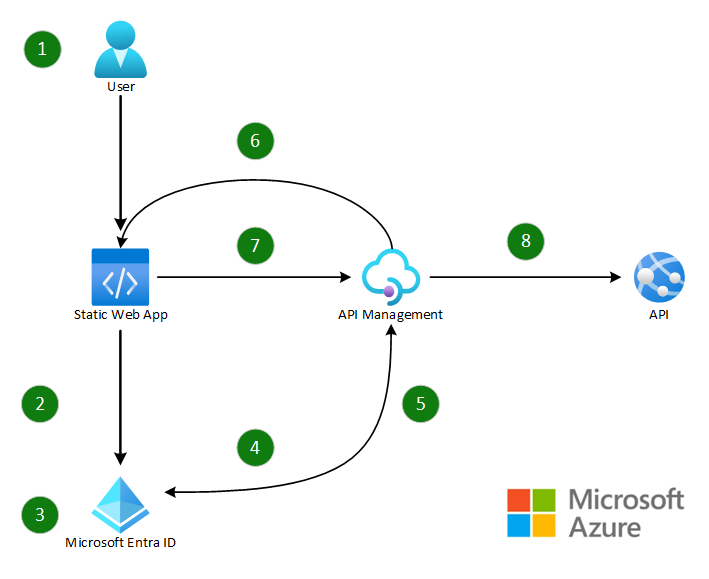
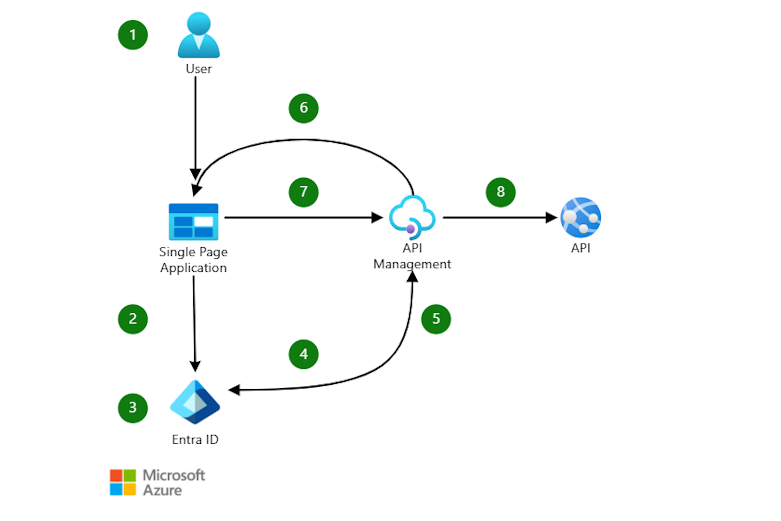
Updated to remove SWA references (#6)

diff --git a/docs/deployment-guide.md b/docs/deployment-guide.md
@@ -6,7 +6,7 @@ As this example uses `SameSite=Strict` cookies, the domain of the API Management
 
 > Note: It is possible to configure this example without using custom domains for the API Management instance and Static Web App, but the policy applied to the `callback` API method would need to be amended to `SameSite=None` and the `return-uri` named value would need to be set to the domain of the Static Web App. This, however, provides a less secure implementation as the cookie will be sent to any instance of API Management gateway and not constrained to your own domain. More on SameSite cookies can be read [here](https://developer.mozilla.org/docs/Web/HTTP/Headers/Set-Cookie/SameSite).
 
-To learn more about using custom domains on Azure resources, see [Manage custom domains for Azure Static Web Apps](https://learn.microsoft.com/azure/static-web-apps/custom-domain), and [Configure a custom domain name for your Azure API Management instance](https://learn.microsoft.com/azure/api-management/configure-custom-domain). For more information on how to configure DNS records for custom domains, see [How to manage DNS Zones in the Azure portal](https://learn.microsoft.com/azure/dns/dns-operations-dnszones-portal).
+To learn more about using custom domains on Azure resources, see [Map a custom domain to an Azure Blob Storage endpoint](/azure/storage/blobs/storage-custom-domain-name), and [Configure a custom domain name for your Azure API Management instance](https://learn.microsoft.com/azure/api-management/configure-custom-domain). For more information on how to configure DNS records for custom domains, see [How to manage DNS Zones in the Azure portal](https://learn.microsoft.com/azure/dns/dns-operations-dnszones-portal).
 
 ## Prerequisites
 
@@ -21,9 +21,9 @@ This example requires the following resources to be created in your **Azure subs
 - **Azure API Management service**
   - This is used to host the API definitions and policies required to implement the authorization flow and logout functionalitym as well as proxy the API requests to the backend service.
   - **Quickstart:** [Create a new Azure API Management service instance by using the Azure portal](https://learn.microsoft.com/azure/api-management/get-started-create-service-instance).
-- **Azure Static Web App**
-  - This is used to host the single-page application. When configuring the static web app select a GitHub repository with the SPA sample code as a deployment source.
-  - **Quickstart:** [Building your first static site with Azure Static Web Apps](https://learn.microsoft.com/azure/static-web-apps/getting-started).
+- **Static Website Hosting in Azure Storage**
+  - This is used to host the single-page application in an Azure Storage account.
+  - **Quickstart:** [Static Website Hosting in Azure Storage](/azure/storage/blobs/storage-blob-static-website).
 - **Azure Key Vault** _(optional)_
   - This can optionally be used to store the client secret generated in the application registration and other secret values.
   - **Quickstart:** [Create a Key Vault using the Azure portal](https://learn.microsoft.com/azure/key-vault/general/quick-create-portal).
@@ -122,9 +122,9 @@ Open the all operations policy file and copy the contents into the policy editor
 
 > Note: If you are a user of Visual Studio Code, API Management policies can be edited using the [Azure API Management extension](https://marketplace.visualstudio.com/items?itemName=ms-azuretools.vscode-apimanagement). This extension also provides syntax highlighting and validation of the policy XML.
 
-## Static Web App configuration
+## Static Website Hosting
 
-To test the deployment of the APIs, the single-page application should be deployed to a static web app. Copy the two single-page files from the [src/spa](/src/spa) directory into a new GitHub repository and deploy it to a static web app. The static web app should be configured to use the `index.html` file as the default document.
+To test the API deployment, the single-page application (SPA) should be hosted using Azure Blob Storage configured for static website hosting. Upload the two SPA files located in the [src/spa](/src/spa) directory to the designated blob container.
 
 The `site.js` file contains three values that need to be updated to match your configuration:
 
@@ -139,7 +139,7 @@ The `site.js` file contains three values that need to be updated to match your c
 
 ## Try it out
 
-Once the static web app has been deployed, the single-page application can be accessed from the custom URL assigned by you. You will be presented with a simple interface with three buttons:
+Once deployed, the single-page application can be accessed from the custom URL assigned by you. You will be presented with a simple interface with three buttons:
 
 ![A screenshot of the running application, sitting on the main view.](images/spa-signin.png)
 
